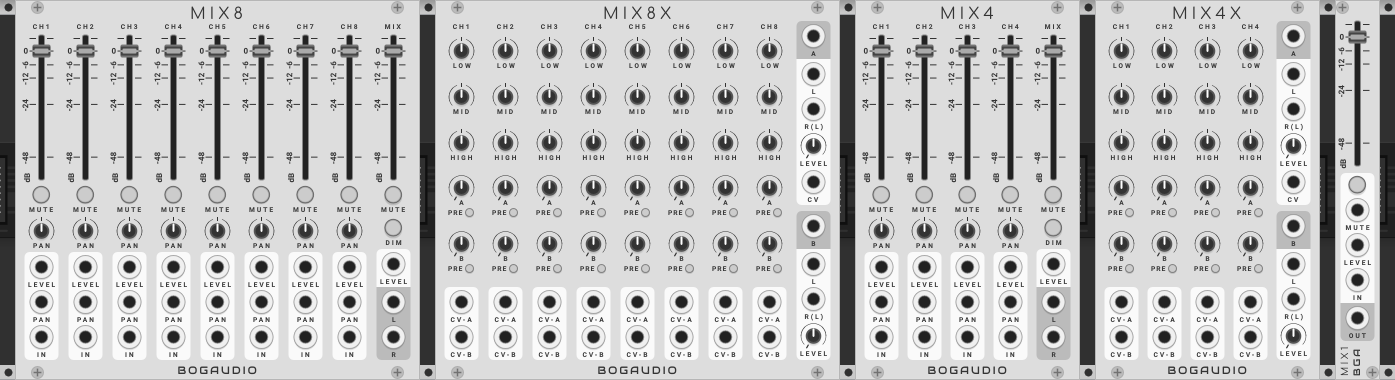
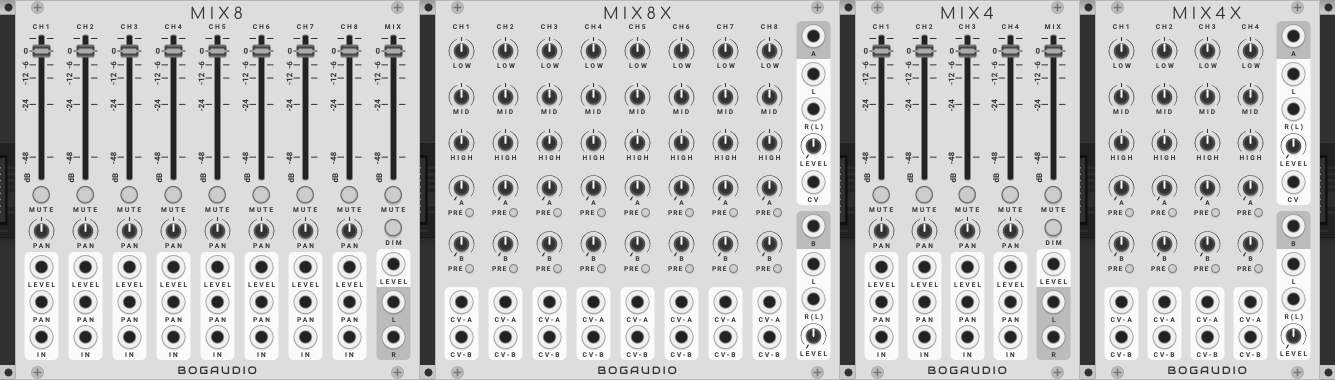
README fix.

diff --git a/scripts/make_screenshots.rb b/scripts/make_screenshots.rb
@@ -118,14 +118,14 @@ screens = [
     file: 'mixers1.png',
     crop: true,
     rows: [
-      ['Mix8', 'Mix8x', 'Mix4', 'Mix4x', 'Mix1']
+      ['Mix8', 'Mix8x', 'Mix4', 'Mix4x']
     ]
   },
   {
     file: 'mixers2.png',
     crop: true,
     rows: [
-      ['VCM', 'Mute8', 'Pan', 'XFade']
+      ['Mix1', 'Mix2', 'VCM', 'Mute8', 'Pan', 'XFade']
     ]
   },
   {

diff --git a/README.md b/README.md
@@ -418,6 +418,8 @@ _Polyphony:_ As with MIX8, this is a monophonic module, but with the same non-st
 
 An expander for MIX4, with functionality identical to what MIX8X adds to MIX8.
 
+![Mixers screenshot](doc/www/mixers2.png)
+
 #### <a name="mix1"></a> MIX1
 
 A 3HP fader/VCA, with mute.  
@@ -433,8 +435,6 @@ _Polyphony:_ <a href="#polyphony">Polyphonic</a>, with channels defined by the L
 #### <a name="vcm"></a> VCM
 
 A four-channel mixer in 10HP.
-
-![Mixers screenshot](doc/www/mixers2.png)
 
 Features:
   - Four input channels and mono mix output with knob and CV control over level.  CVs expect 0-10V; when CV is in use, it is attenuated by the knob.
